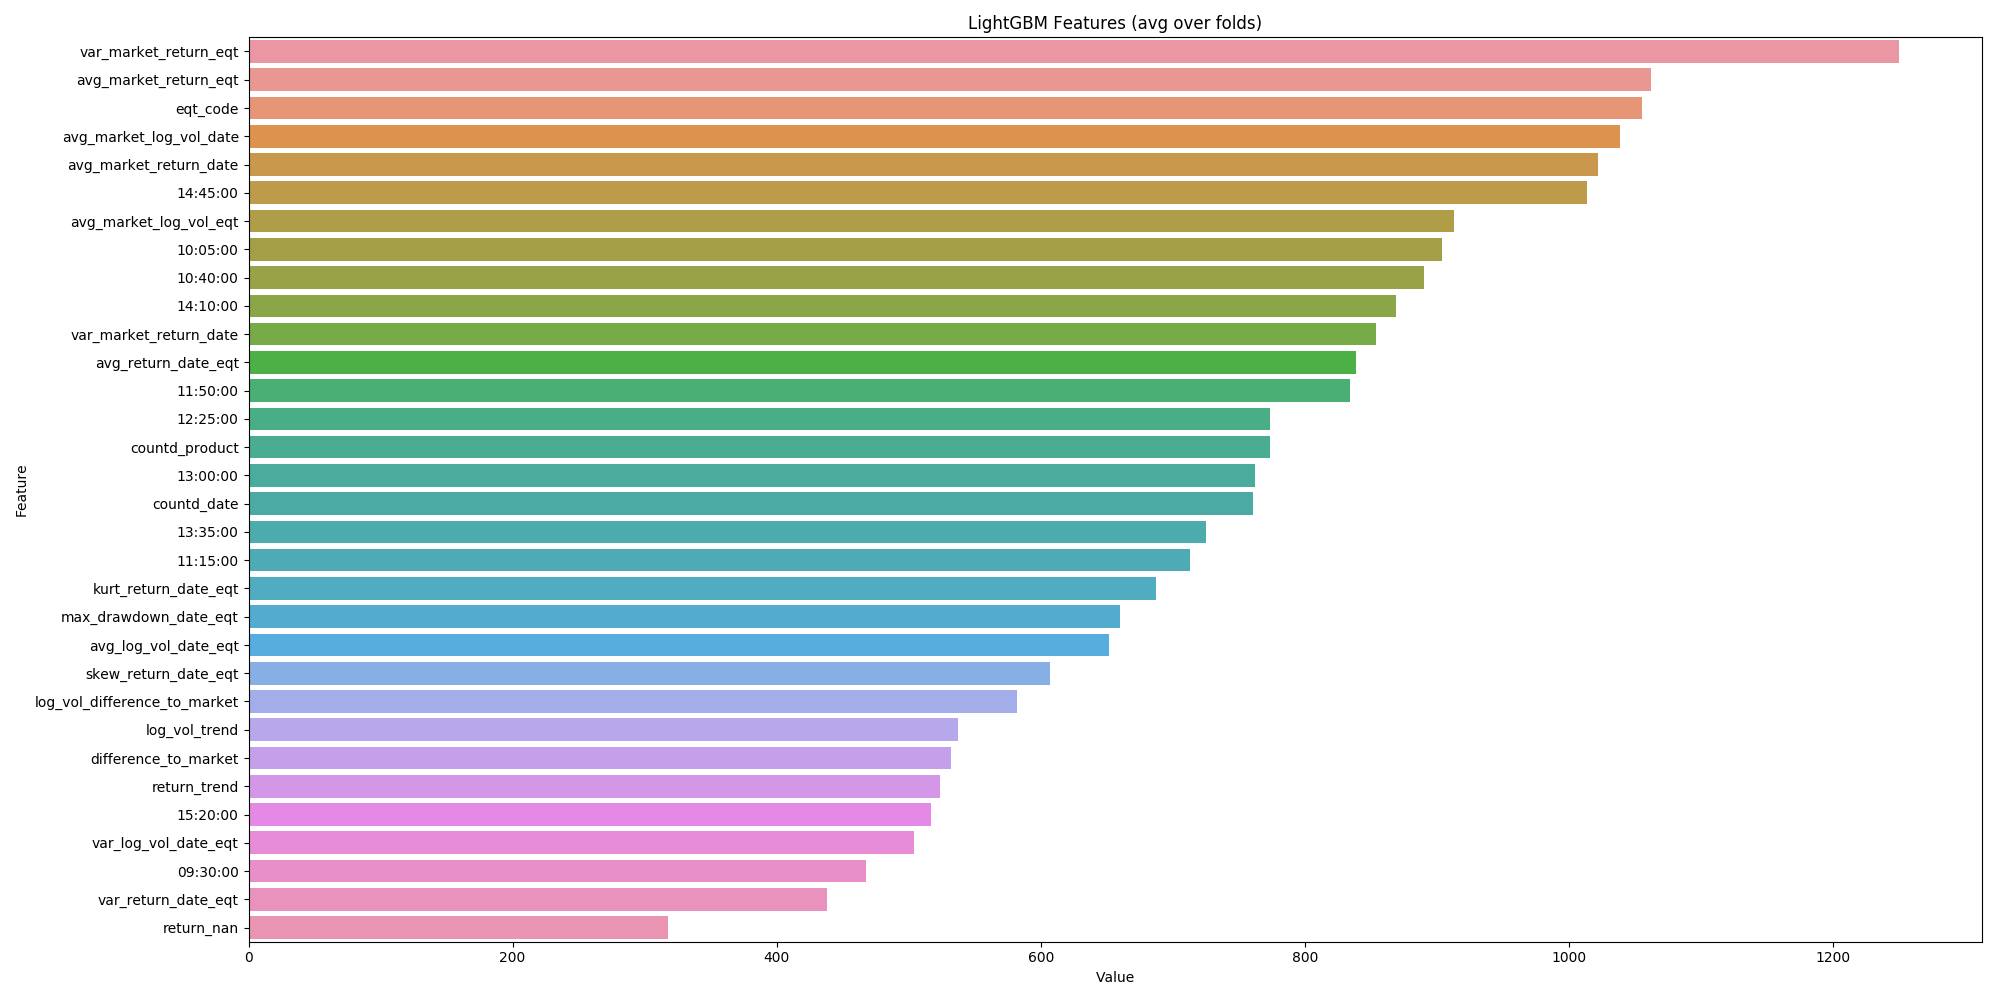
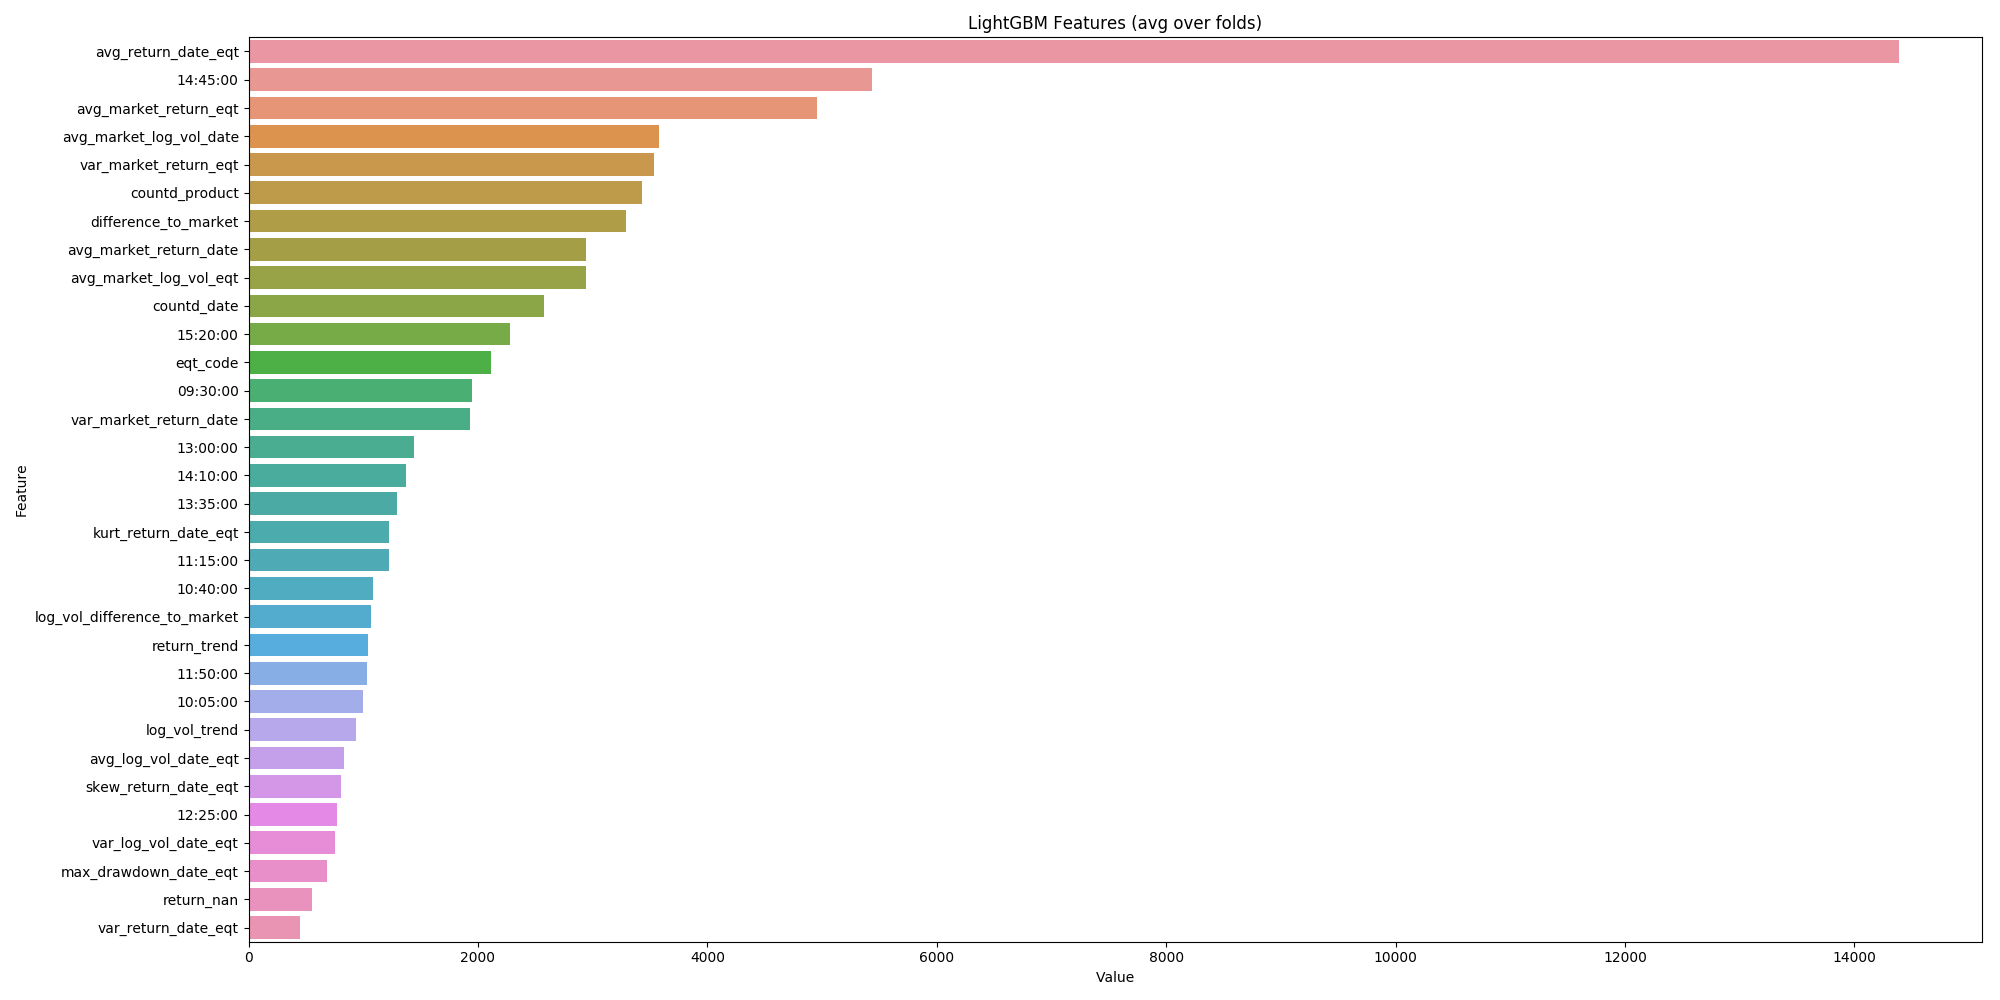
Feature importance

diff --git a/src/models/boosting/lightGBM.py b/src/models/boosting/lightGBM.py
@@ -71,14 +71,16 @@ gs = model_selection.RandomizedSearchCV(
     cv=3,
     refit=True,
     random_state=42,
-    verbose=True)
+    verbose=True,
+    )
 
 gs.fit(data.train.data, train_labels, **fit_params)
 print('Best score reached: {} with params: {} '.format(gs.best_score_,
                                                        gs.best_params_))
-preds = gs.predict(data.test.data)
+#preds = gs.predict(data.test.data)
 
-
+clf = lgbm.LGBMClassifier(importance_type = 'gain',**gs.best_params_)
+clf.fit(data.train.data, train_labels, **fit_params)
 
 import matplotlib.pyplot as plt
 import seaborn as sns
@@ -86,15 +88,15 @@ import warnings
 import pandas as pd
 warnings.simplefilter(action='ignore', category=FutureWarning)
 
-# sorted(zip(clf.feature_importances_, X.columns), reverse=True)
-#feature_imp = pd.DataFrame(sorted(zip(gs.best_estimator_.feature_importances_,data.train.data.columns)), columns=['Value','Feature'])
 
-#plt.figure(figsize=(20, 10))
-#sns.barplot(x="Value", y="Feature", data=feature_imp.sort_values(by="Value", ascending=False))
-#plt.title('LightGBM Features (avg over folds)')
-#plt.tight_layout()
+feature_imp = pd.DataFrame(sorted(zip(clf.feature_importances_,data.train.data.columns)), columns=['Value','Feature'])
+
+plt.figure(figsize=(20, 10))
+sns.barplot(x="Value", y="Feature", data=feature_imp.sort_values(by="Value", ascending=False))
+plt.title('LightGBM Features (avg over folds)')
+plt.tight_layout()
 #plt.show()
-#plt.savefig('lgbm_importances-01.png')
+plt.savefig('lgbm_importances-01.png')
 
 from src.tools.utils import submission
 submission(preds, test_id)
